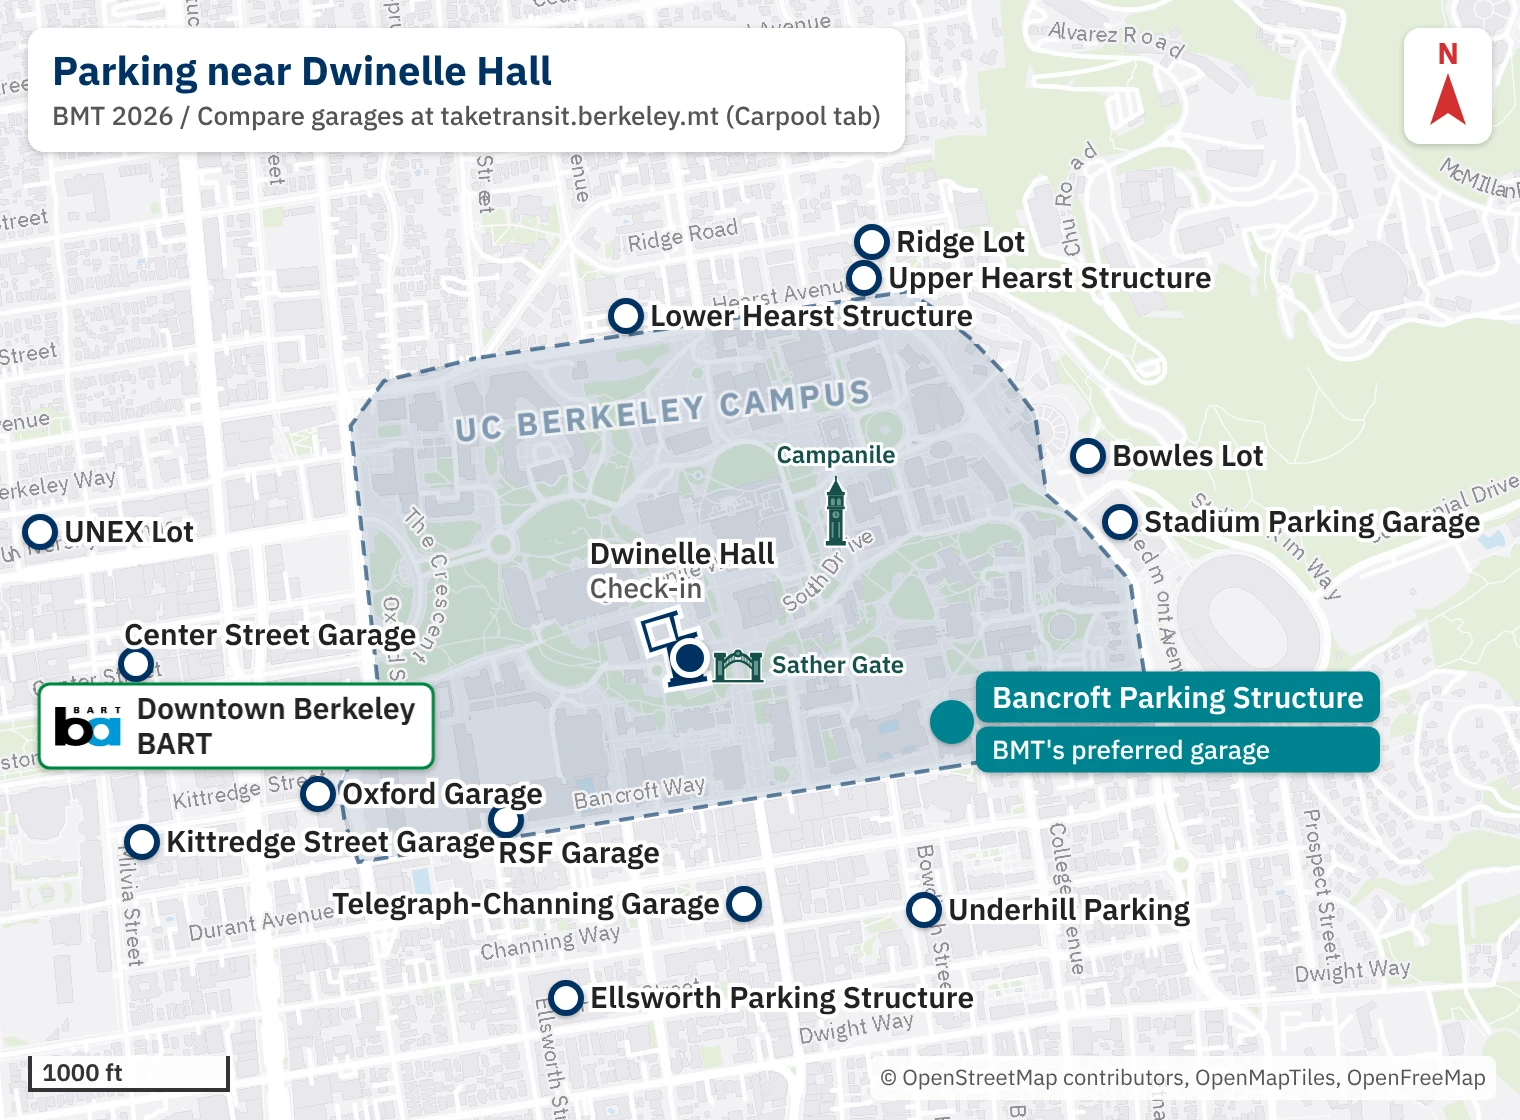
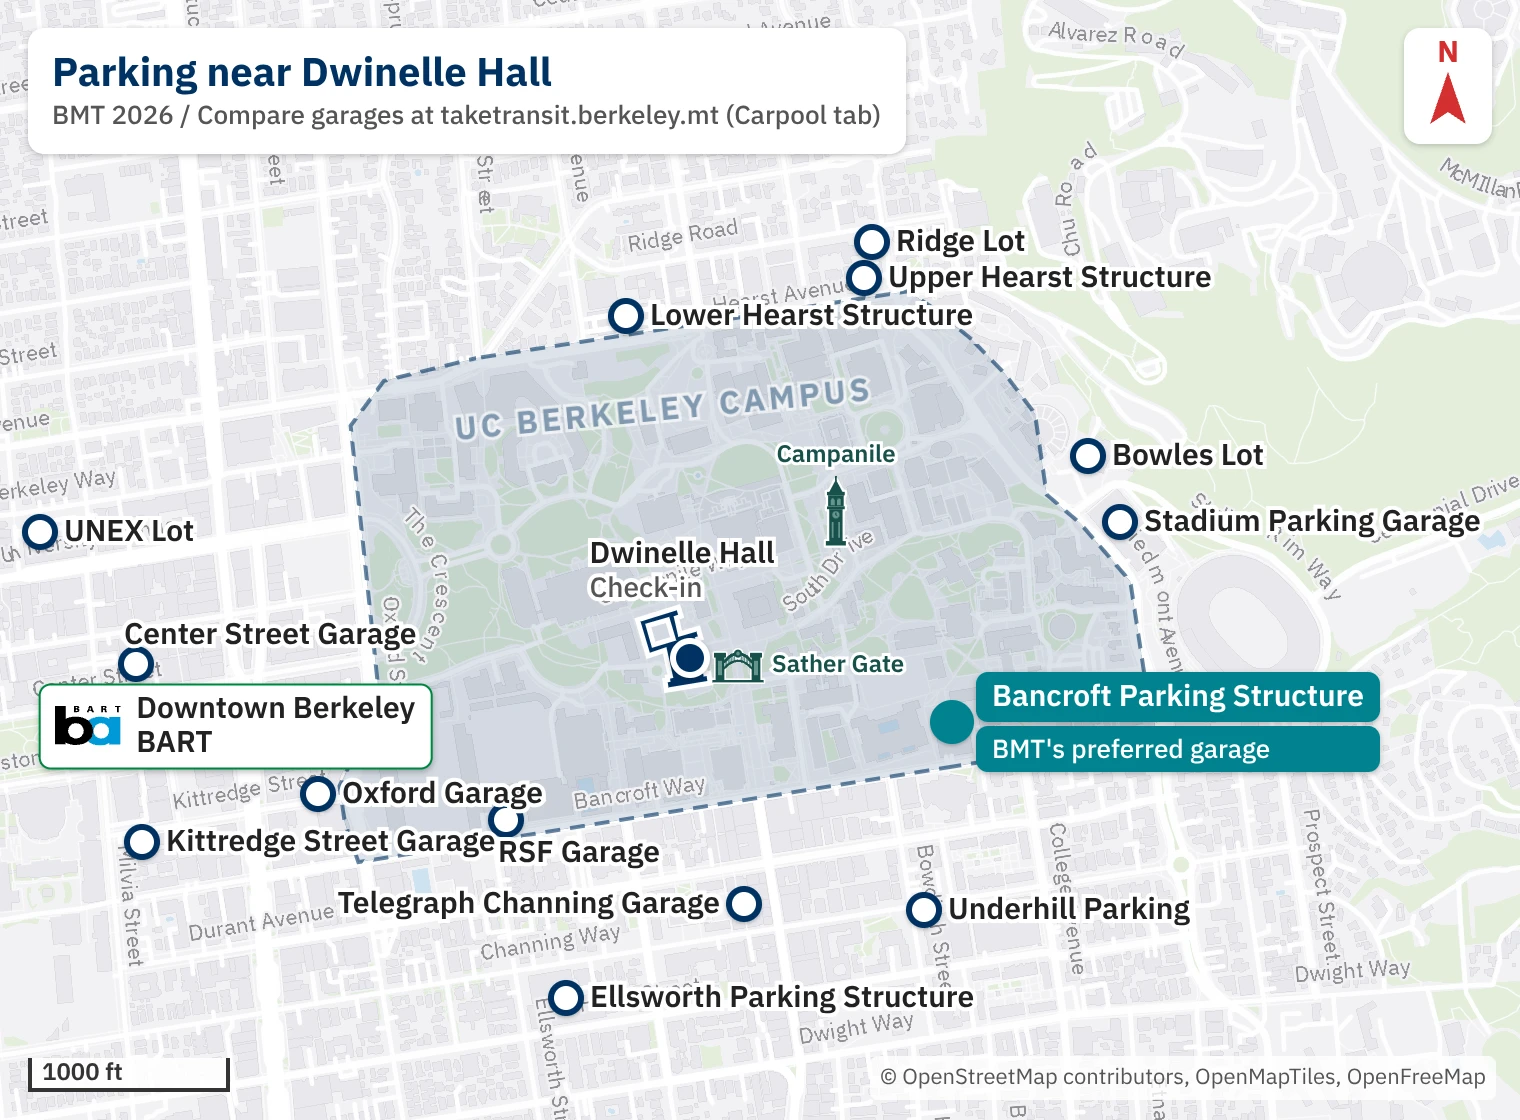
Parking map and FAQ: Telegraph Channing Garage without the hyphen

diff --git a/content/faqs.md b/content/faqs.md
@@ -145,7 +145,7 @@ commuting from San Francisco or the East Bay.
 If you prefer to drive, there are a number of parking garages near campus,
 including:
 
-- Telegraph-Channing Garage _(recommended — cheaper than campus garages and
+- Telegraph Channing Garage _(recommended — cheaper than campus garages and
   free up to an hour)_
 - Underhill Garage
 - RSF Garage
